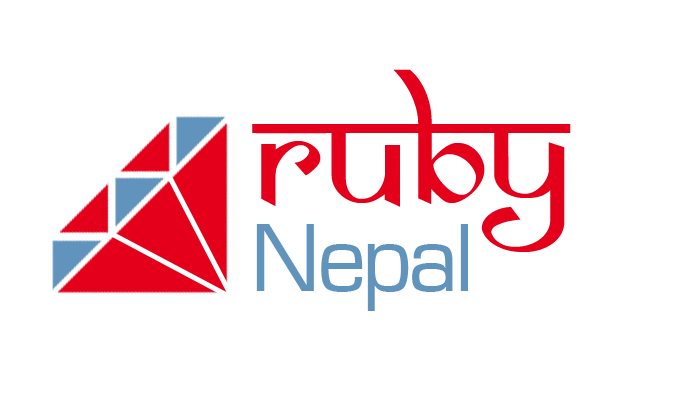
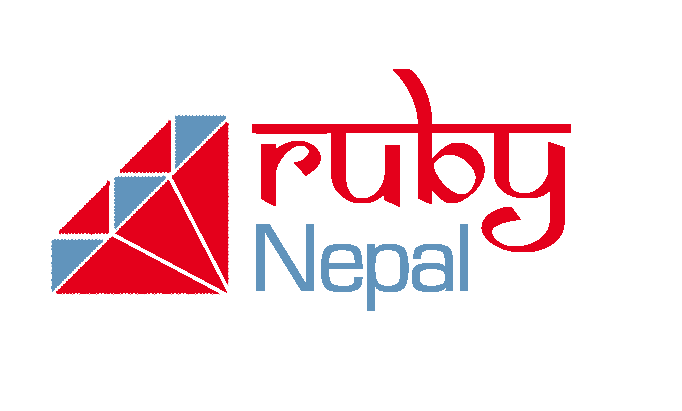
Add Github Actions to compress images (#309)
* Add Github Actions to compress images

https://github.com/calibreapp/image-actions

* Optimised images with calibre/image-actions

diff --git a/index.html b/index.html
@@ -7,7 +7,7 @@ layout: home
     <div class="columns is-vcentered">
       <div class="column is-5">
         <figure class="image is-4by3">
-          <img src="/images/rubymeet.jpeg" alt="Ruby Meetup">
+          <img src="/images/rubymeet.jpg" alt="Ruby Meetup">
         </figure>
       </div>
       <div class="column is-6 is-offset-1">
